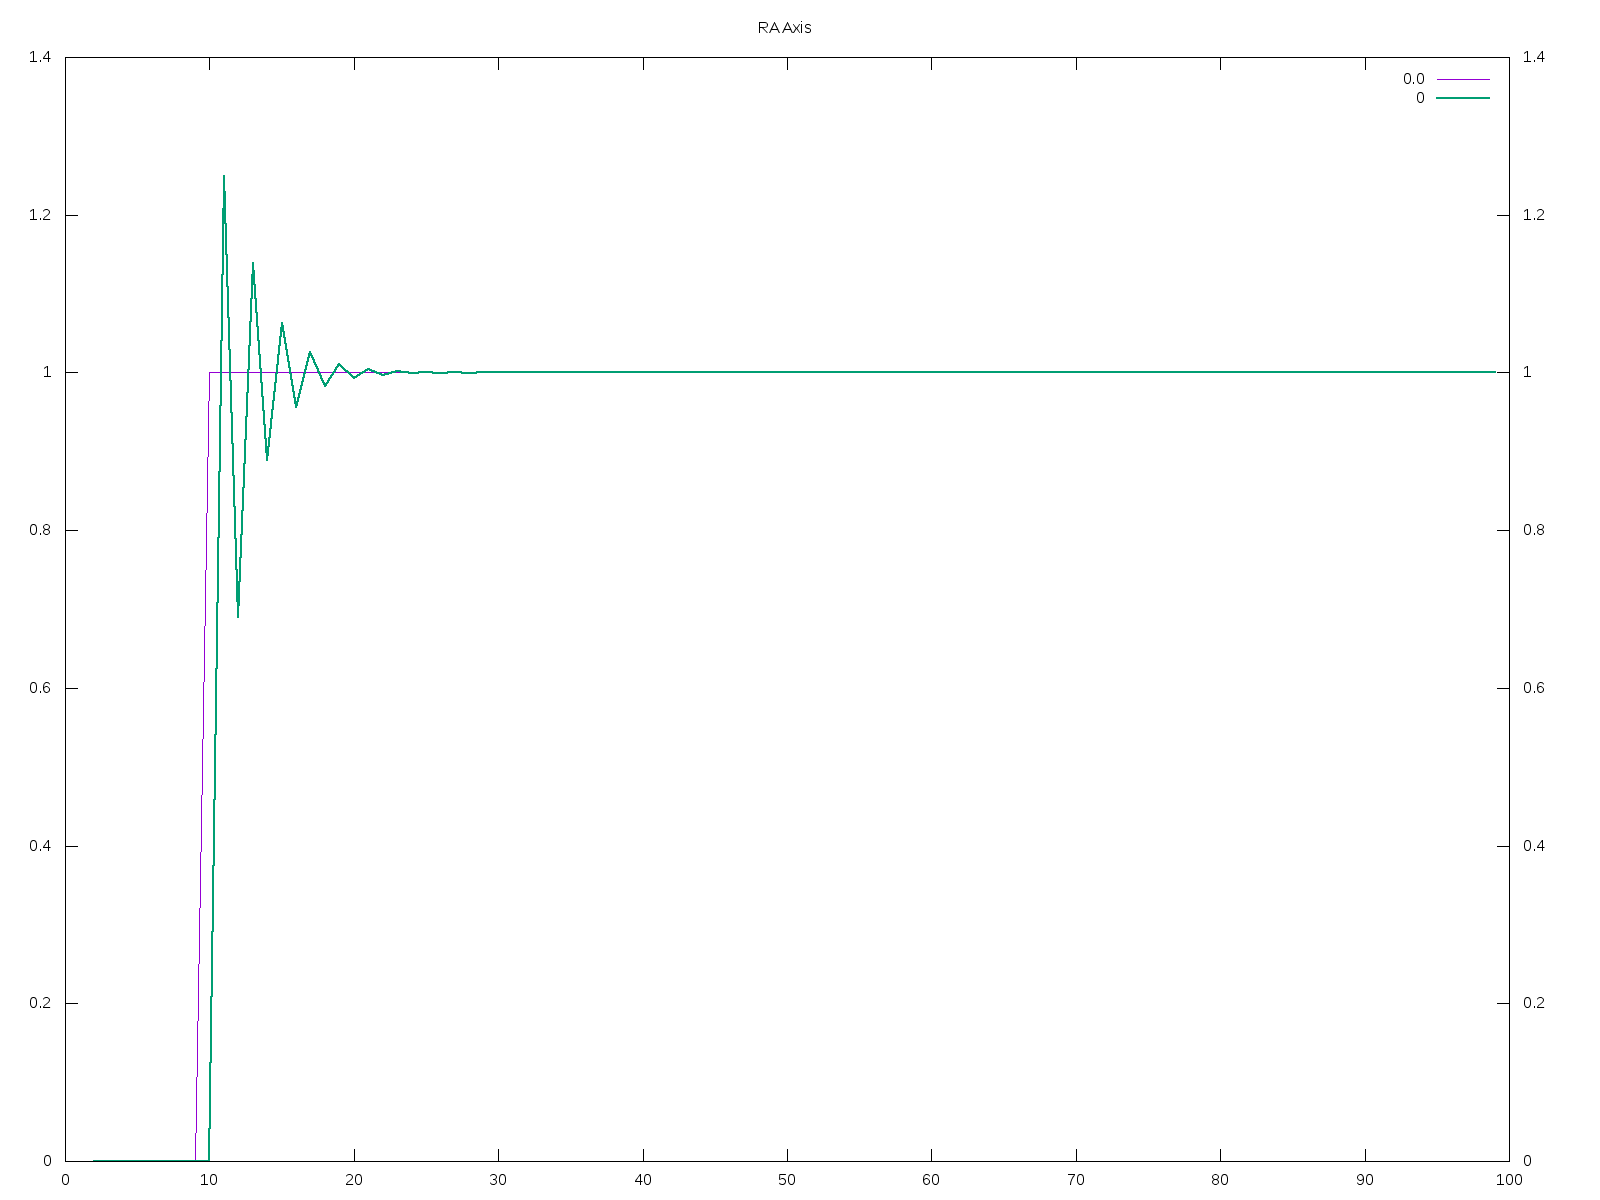
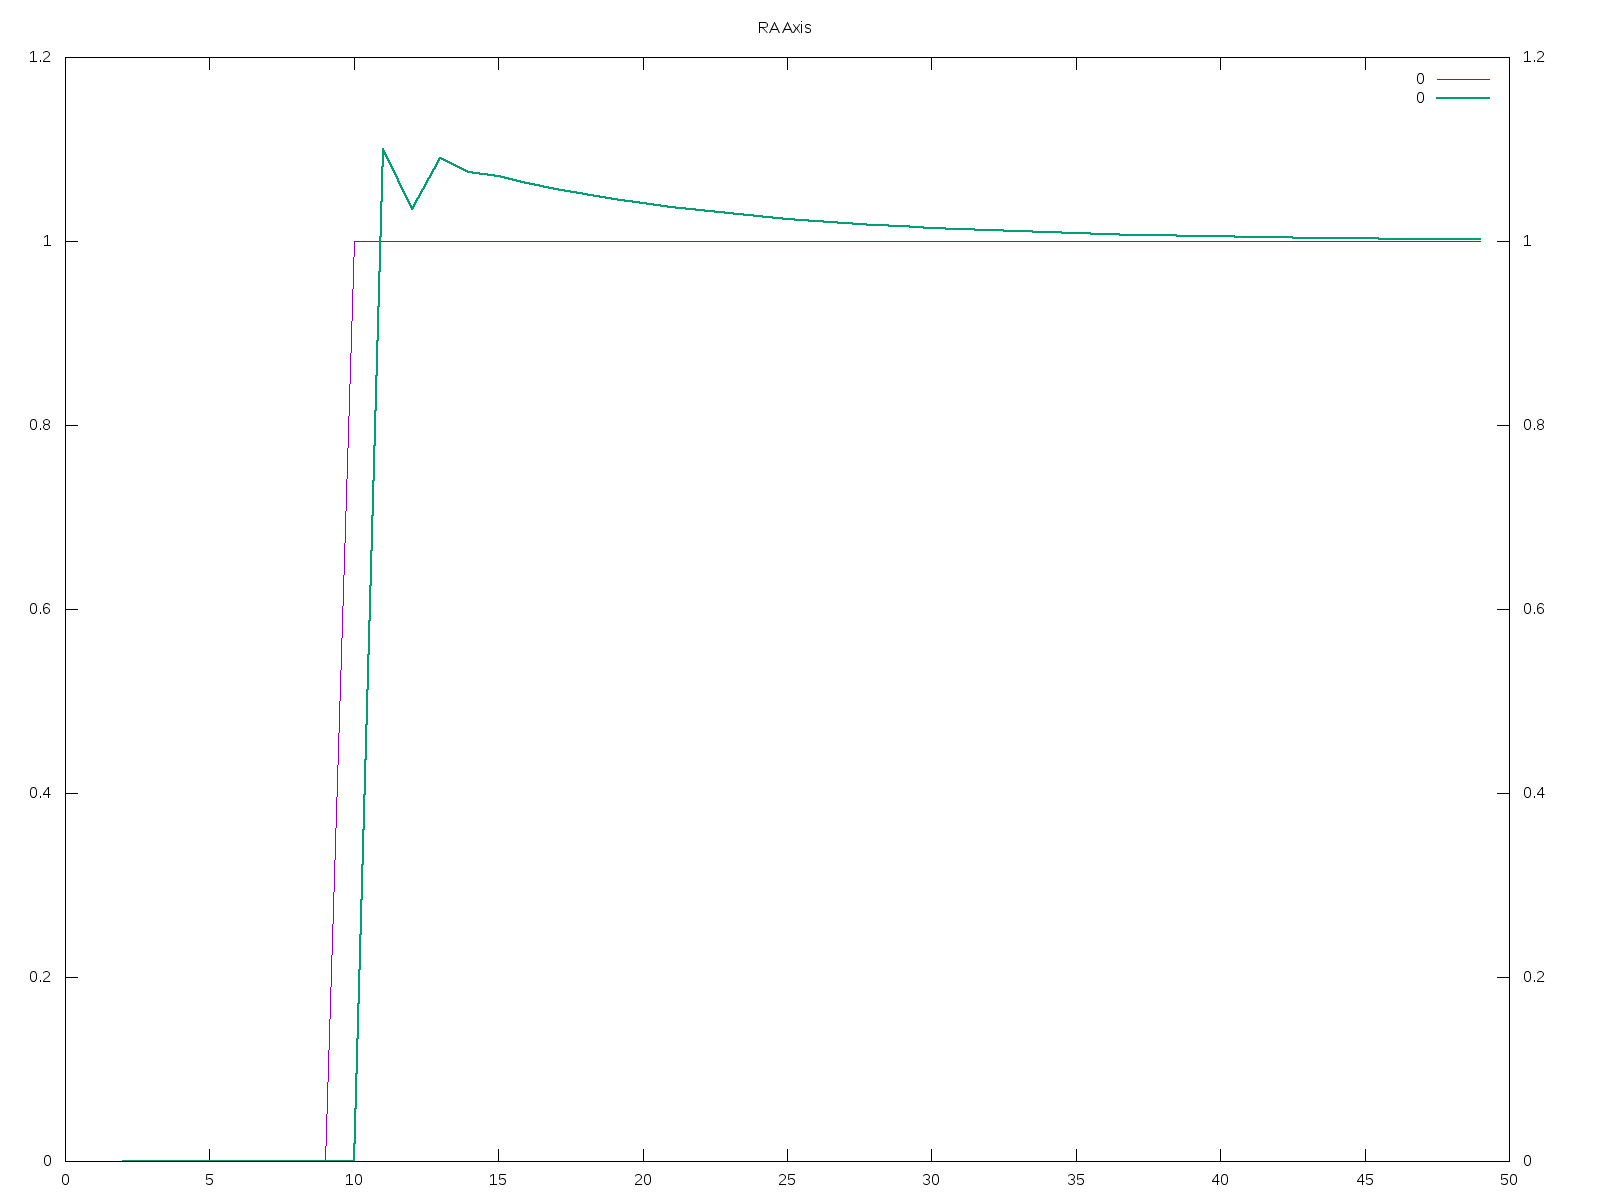
Good PID on rpiSpeedPWM

Changed region(s): [[0.125, 0.2775, 0.25, 0.5242]]

diff --git a/termiteOS/telescope/mount/rpiSpeedPWM.py b/termiteOS/telescope/mount/rpiSpeedPWM.py
@@ -5,99 +5,141 @@
 # Copyright (c) July 2018 Nacho Mas
 '''
 Raspberry PWM motor driver.
+INTERFACE:
+inherits several methods from rpiDRV8825Hut base class
+- betaMotor
+- pinout
+- microsteps
+- clutch()
+- reset()
+- sleep()
+- set_microsteps(microsteps)
+- sync(position)
+
+Own methods:
+-setSpeed (radians/seconds)
+-setRPM(RPM)
+-SetPoint(setpoint)
+-goto() -> absolute SetPoint
+-move() -> relative SetPoint
+-stop()
+-is
+-isStopped()
 
 '''
 
 import math
 import time, datetime
 import pigpio
+import logging
 import termiteOS.maths.hPID as PID
 import termiteOS.drivers.rpi.rpiDRV8825Hut as rpihut
+
 
 
 #Stepper raspberry implementation
 class rpiSpeedPWM(rpihut.rpiDRV8825Hut):
     def __init__(self, raspberry, driverID,microsteps, FullTurnSteps):
         super(rpiSpeedPWM, self).__init__(raspberry,driverID,microstepping=microsteps)
-        #self.set_microsteps(microsteps)
+        self.logger = logging.getLogger(type(self).__name__)
         self.STEP_PIN = self.pinout['STEP']
         self.DIR_PIN = self.pinout['DIR']
-        self.FullTurnSteps=FullTurnSteps*self.microsteps
-        self.pulseWidth = 1. / float(self.maxPPS)
         self.pulseDuty = 0.5
+        self.maxAccel=300
+        self.FullTurnSteps=FullTurnSteps*self.microsteps
         self.minMotorStep = math.pi * 2 / float(self.FullTurnSteps)
-        self.vmax = self.minMotorStep / self.pulseWidth
+        self.SetPoint=0
         self.freq = 0
         self.Vold=0
         self.stop()
-
+        self.RUN=True
+        self.timesleep=0.1
+        self.logger.debug("rpiSpeedPWM Controller created")
 
     def setRPM(self,rpm):
-            v=rpm*2.*math.pi/60.
-            self.setSpeed(v)
+        v=rpm*2.*math.pi/60.
+        self.setSpeed(v)
+        self.logger.debug("RPM %f",v)
 
     def stop(self):
-            self.pi.hardware_PWM(self.STEP_PIN, 10, 0)
-
+        self.pi.hardware_PWM(self.STEP_PIN, 10, 0)
+        self.logger.debug("STOPPED")
 
     def isStopped(self):
-                PWMstate =  (self.pi.get_PWM_dutycycle(self.pinout['STEP']) == 0)
-                return PWMstate
+        PWMstate =  (self.pi.get_PWM_dutycycle(self.pinout['STEP']) == 0)
+        return PWMstate
 
     def setSpeed(self, v):
-            # v in radians/s    
-            freq = 0
-            #calculate direction of motion
-            if self.dir * v < 0:
-                self.dir = math.copysign(1, v)
-                self.set_dir(self.dir)
+        # v in radians/s    
+        freq = 0
+        #calculate direction of motion
+        if self.dir * v < 0:
+            self.dir = math.copysign(1, v)
+            self.set_dir(self.dir)
+        freq = round(abs(v) / self.minMotorStep)
+        if freq >= self.maxPPS:
+            freq = self.maxPPS
+        self.freq=freq
+        self.pi.hardware_PWM(self.STEP_PIN, self.freq,self.pulseDuty * 1000000)
+        self.logger.debug("PWM FREQUENCY:%f",self.freq)
+        return self.freq
 
-            freq = round(abs(v) / self.minMotorStep)
-            if freq >= self.maxPPS:
-                freq = self.maxPPS
-            self.freq=freq
-            self.pi.hardware_PWM(self.STEP_PIN, self.freq,self.pulseDuty * 1000000)
-
-            return self.freq
-
-    def rampUp(self,v):
-        maxDeltaV=100
-        deltaV=v-self.Vold
-        if abs(deltaV)>=maxDeltaV:
-            v=self.Vold+math.copysign(maxDeltaV, deltaV)
+    def rampUp(self,v,deltaT,out_min=-750,out_max=750):
+        ##REVIEW
+        deltaV=(v-self.Vold)
+        self.logger.debug("RAMPUPV DELTA_V:%f V:%f oldV:%f",deltaV,v,self.Vold)
+        if abs(deltaV)>=self.maxAccel*deltaT:
+            v=self.Vold+math.copysign(self.maxAccel*deltaT, deltaV)
+            self.logger.debug("MAX ACCEL %f deltaT:%f",self.maxAccel*deltaT,deltaT)
+        if v <= out_min:
+                v=out_min
+                self.logger.debug("MIN V")
+        if v >= out_max:
+                v=out_max
+                self.logger.debug("MAX V")
+        self.logger.debug("RAMPUP V:%f",v)
         self.Vold=v
         return v
-       
-    def goto(self,count):
-        pid=PID.PID(sampletime=0.2,kp=0.01,ki=0.01,kd=0.00,out_min=-750,out_max=750)
-        pid.SetPoint=count
-        while True:
+
+    def move(self,relstepcount):
+        self.logger.debug("RELATIVE MOVE TO:%f",relstepcount)
+        return self.goto(self.SetPoint+relstepcount)
+
+    def goto(self,stepcount):
+        self.SetPoint=stepcount
+        self.logger.debug("ABSOLUTED MOVE TO:%f",stepcount)
+
+    def run(self):
+        self.T = time.time()
+        pid=PID.PID(sampletime=self.timesleep,kp=0.01,ki=0.00,kd=0.00,out_min=-750,out_max=750)
+        while self.RUN:
+            #calculate the actual timestep
+            now = time.time()
+            deltaT = now - self.T
+            pid.SetPoint=self.SetPoint
             feedback=self.motorBeta
-            pid.SetPoint+=10000
-            output = pid.update(feedback)
-            v=output
-            v=self.rampUp(v)
+            v = pid.update(feedback)
+            v=self.rampUp(v,deltaT,out_min=-750,out_max=750)
             self.setRPM(v)
-            time.sleep(0.2)
-            print(pid.SetPoint,feedback,feedback-pid.SetPoint,v)
+            time.sleep(self.timesleep)
+            print("%f %f %f %f" % (pid.SetPoint,feedback,feedback-pid.SetPoint,v))
+            self.logger.debug("error:%f v:%f",feedback-pid.SetPoint,v)
+            self.T=now
+        self.logger.critical("RUN END")
+
+    def end(self):
+        self.RUN=False
+        self.runThread.join()
+        self.logger.critical("RUN THREAD ENDDED.")
+        exit(0)        
 
 
 
 if __name__ == '__main__':
-        axis=rpiSpeedPWM('192.168.1.11',0,32,200)
-        axis.goto(100000)
-        axis.setRPM(100)
-        time.sleep(1)
-        axis.setRPM(400)
-        time.sleep(1)
-        axis.setRPM(600)
-        time.sleep(1)
-        axis.setRPM(750)
-        time.sleep(5)
-        axis.setRPM(100)
-        time.sleep(1)
-        axis.stop()
+        logging.basicConfig(format='%(asctime)s PWMspeed:%(levelname)s %(message)s',level=logging.DEBUG)
+        axis=rpiSpeedPWM('192.168.1.11',0,16,200)
+        axis.goto(160000)
+        axis.run()
         print(axis.isStopped())
-
         print(axis.motorBeta)
 

diff --git a/termiteOS/drivers/rpi/rpiDRV8825Hut.py b/termiteOS/drivers/rpi/rpiDRV8825Hut.py
@@ -9,13 +9,14 @@ This board has two DRV8825 able to driver 2 motors
 See hardware termiteOS/driver/rpi/hardware
 
 INTERFACE TO OTHER MODULES
-- betaMotor
+- motorBeta
 - pinout
 - microsteps
 - clutch()
 - reset()
 - sleep()
 - set_microsteps(microsteps)
+- sync(motorBeta) 
 
 RASPBERRY B+ PWM PINOUT:
 			12  PWM channel 0  All models but A and B
@@ -27,7 +28,7 @@ RASPBERRY B+ PWM PINOUT:
 '''
 
 import pigpio
-
+import logging
 
 
 class rpiDRV8825Hut(object):
@@ -36,6 +37,7 @@ class rpiDRV8825Hut(object):
                         1:{'STEP':18,'DIR':22,'ENABLE': 8,'FAULT':17,'RESET':25,'SLEEP':24,'M0':11,'M1': 9,'M2':10}}
                 self.pinout=PINOUT[driverID]
 		self.pi=pigpio.pi(raspberry)
+                self.logger = logging.getLogger(type(self).__name__)
 		pi=self.pi
 		pi.set_mode(self.pinout['STEP'], pigpio.OUTPUT)
 		pi.set_mode(self.pinout['DIR'], pigpio.OUTPUT)
@@ -62,6 +64,10 @@ class rpiDRV8825Hut(object):
 
 	def clutch(self,ON_OFF):
 		self.pi.write(self.pinout['ENABLE'],ON_OFF)
+                if ON_OFF:
+                        self.logger.debug("CLUTCH ON")
+                else:
+                        self.logger.debug("CLUTCH OFF")
 
 	def set_microsteps(self,microsteps):
 		'''
@@ -94,6 +100,7 @@ class rpiDRV8825Hut(object):
 		self.pi.write(self.pinout['M1'], msteping['M1'])
 		self.pi.write(self.pinout['M0'], msteping['M0'])
 		self.microsteps=microsteps
+                self.logger.debug("SET MICROSTEPS=%i",microsteps)
 
 
         def set_dir(self,dir):
@@ -102,10 +109,19 @@ class rpiDRV8825Hut(object):
         def reset(self,ON_OFF):
                 NOT_ON_OFF=not ON_OFF
 		self.pi.write(self.pinout['RESET'], NOT_ON_OFF)
+                if ON_OFF:
+                        self.logger.debug("RESET")
 
 	def sleep(self,ON_OFF):
                 NOT_ON_OFF=not ON_OFF
 		self.pi.write(self.pinout['SLEEP'], NOT_ON_OFF)
+                if ON_OFF:
+                        self.logger.debug("SLEEPPING")
+                else:
+                        self.logger.debug("WAKE UP")
+
+        def sync(self,position):
+                self.motorBeta=position
 
 	def stepcounter(self,gpio, level, tick):
 		self.motorBeta=self.motorBeta+self.dir
@@ -113,6 +129,7 @@ class rpiDRV8825Hut(object):
 	def fault(self,gpio, level, tick):
 		if level==1:
 			self.fault=True
+                        self.logger.error("MOTOR FAULT!")
 		else:
 			self.fault=False
 

diff --git a/termiteOS/maths/hPID.py b/termiteOS/maths/hPID.py
@@ -4,7 +4,9 @@
 # termiteOS
 # Copyright (c) July 2018 Nacho Mas
 # Adapted from: https://github.com/hirschmann/pid-autotune/blob/master/pid.py
+from __future__ import print_function
 from time import time
+from time import sleep
 import logging
 
 class PID(object):
@@ -44,7 +46,7 @@ class PID(object):
         self._last_output = 0
         self._last_calc_timestamp = 0
         self._time = time
-        self.setPoint=0
+        self.SetPoint=0
 
     def update(self, input_val):
         """Adjusts and holds the given setpoint.
@@ -81,12 +83,22 @@ class PID(object):
         self._last_output = max(self._last_output, self._out_min)
 
         # Log some debug info
-        self._logger.debug('P: {0}'.format(p))
-        self._logger.debug('I: {0}'.format(i))
-        self._logger.debug('D: {0}'.format(d))
-        self._logger.debug('output: {0}'.format(self._last_output))
+        self._logger.debug('P:{0} I:{1} D:{2} output:{3}'.format(p,i,d,self._last_output))
 
         # Remember some variables for next time
         self._last_input = input_val
         self._last_calc_timestamp = now
         return self._last_output
+
+if __name__ == '__main__':
+        END=50
+        feedback=0
+        pid = PID(sampletime=0.1,kp=1.,ki=1,kd=0.005)
+        for i in range(1, END):
+            output = pid.update(feedback)
+            if pid.SetPoint > 0:
+                feedback += (output - (1/i))
+            if i>9:
+                pid.SetPoint = 1
+            sleep(0.2)
+            print(i,pid.SetPoint,feedback)

diff --git a/termiteOS/maths/ivPID.py b/termiteOS/maths/ivPID.py
@@ -64,7 +64,7 @@ class PID:
         # Windup Guard
         self.int_error = 0.0
         self.windup_guard = 0
-
+        self.SetPoint=0.0
 
     def update(self, feedback_value):
         """Calculates PID value for given reference feedback
@@ -136,20 +136,16 @@ class PID:
         self.windup_guard = windup
 
 if __name__ == '__main__':
-        END=100
-        pid = PID(sampletime=1,kp=1.,ki=1,kd=0.005)
-        pid.SetPoint=0.0
-        pid.setSampleTime(0.01)
-        pid.setWindup(0)
+        END=50
+        pid = PID(sampletime=0.1,kp=1.,ki=1,kd=0.005)
         feedback=0
         pid.output=0
         for i in range(1, END):
-            pid.update(feedback)
-            output = pid.output
+            output = pid.update(feedback)
             if pid.SetPoint > 0:
                 feedback += (output - (1/i))
             if i>9:
                 pid.SetPoint = 1
-            time.sleep(0.02)
+            time.sleep(0.2)
             print(i,pid.SetPoint,feedback)
 
